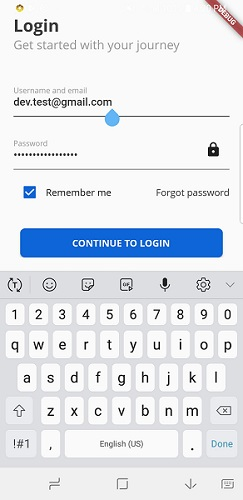
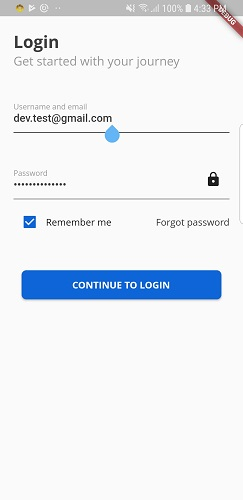
modified screenshot

diff --git a/lib/view/login/login_page.dart b/lib/view/login/login_page.dart
@@ -33,8 +33,11 @@ class _LoginPageState extends State<LoginPage> {
             CustomInputField(
               isPassword: false,
             ),
-            CustomInputField(
-              isPassword: true,
+            Padding(
+              padding: const EdgeInsets.only(top: 20),
+              child: CustomInputField(
+                isPassword: true,
+              ),
             ),
             _loginOptions(),
             _signInButton()
@@ -106,7 +109,7 @@ class _LoginPageState extends State<LoginPage> {
 
   Widget _signInButton() {
     return Padding(
-      padding: const EdgeInsets.symmetric(vertical: 27.0, horizontal: 10.0),
+      padding: const EdgeInsets.symmetric(vertical: 45.0, horizontal: 12.0),
       child: Row(children: <Widget>[
         Expanded(
           child: RaisedButton(
